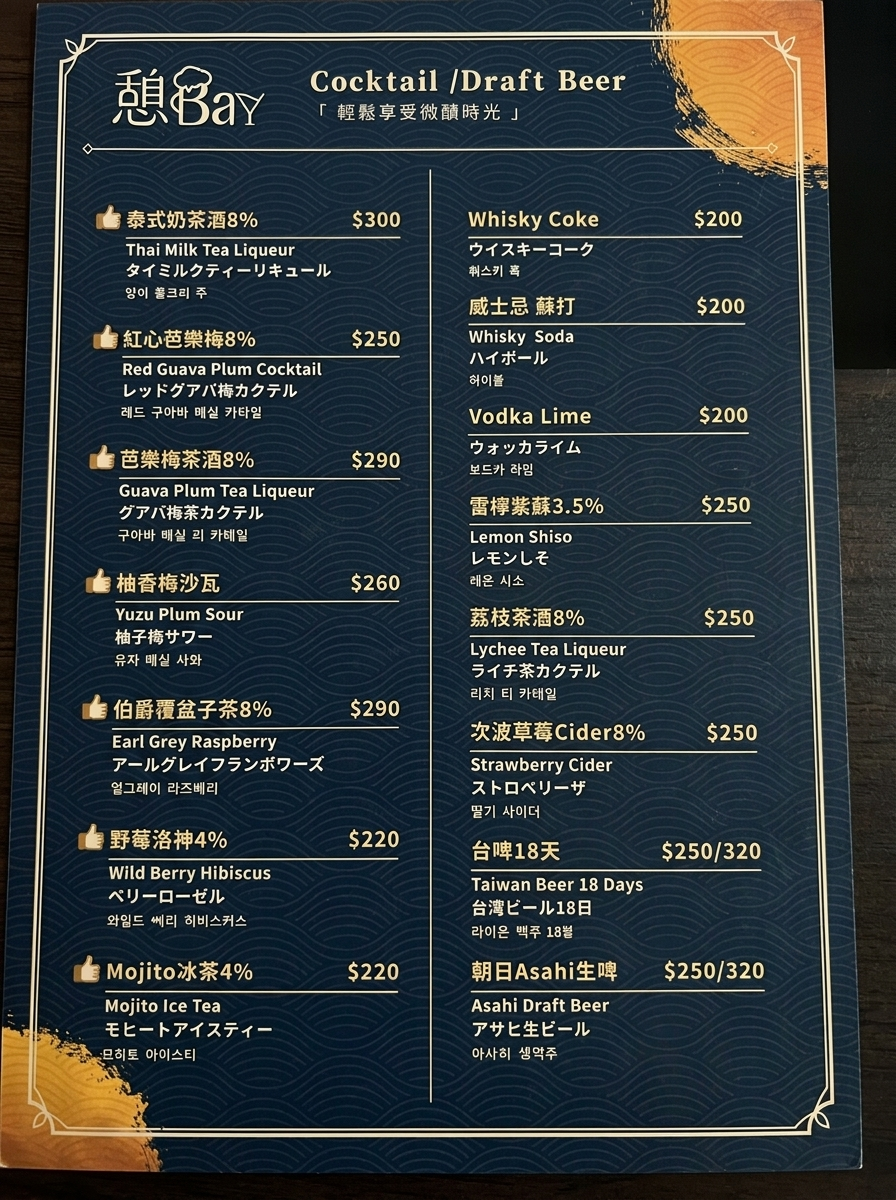
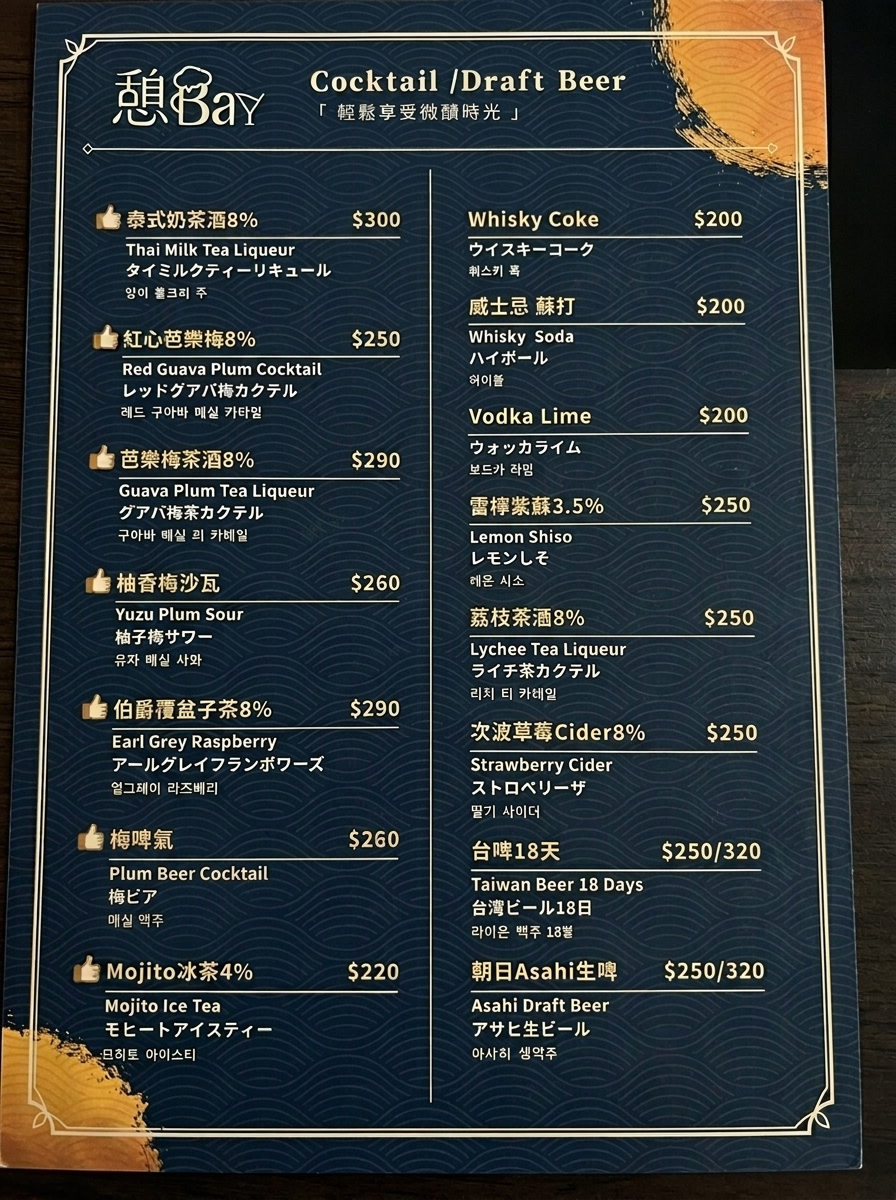
fix(menu): ensure '梅啤氣 260元' (Plum Beer Cocktail) is explicitly listed and correctly spelled on page 4 menu

diff --git a/preview.html b/preview.html
@@ -204,7 +204,7 @@
             {
                 file: "assets/menu_p4.jpg",
                 title: "🍸 第 4 頁：特色調酒、風味茶酒與生啤酒",
-                desc: "泰式奶茶酒 8% ($300)、紅心芭樂梅 8% ($250)、芭樂梅茶酒 8% ($290)、柚香梅沙瓦 ($260)、伯爵覆盆子 8% ($290)、梅脾氣 ($260)、野莓洛神 4% ($220)、Mojito冰茶 4% ($220) ｜ 18天生啤、朝日生啤"
+                desc: "泰式奶茶酒 8% ($300)、紅心芭樂梅 8% ($250)、芭樂梅茶酒 8% ($290)、柚香梅沙瓦 ($260)、伯爵覆盆子 8% ($290)、梅啤氣 ($260)、野莓洛神 4% ($220)、Mojito冰茶 4% ($220) ｜ 18天生啤、朝日生啤"
             },
             {
                 file: "assets/menu_p5.jpg",

diff --git a/menu_viewer.py b/menu_viewer.py
@@ -43,7 +43,7 @@ MENU_PAGES = [
         "title": "🍸 第 4 頁：特色調酒、風味茶酒與生啤酒",
         "tab_name": "🍸 4. 特色調酒 & 生啤",
         "file": "menu_p4.jpg",
-        "desc": "泰式奶茶酒 8% ($300)、紅心芭樂梅 8% ($250)、芭樂梅茶酒 8% ($290)、柚香梅沙瓦 ($260)、伯爵覆盆子 8% ($290)、梅脾氣 ($260)、野莓洛神 4% ($220)、Mojito冰茶 4% ($220)、雷檸紫蘇/荔枝/草莓 ｜ 18天生啤 ($250/$320)、朝日生啤 ($250/$320)、Highball/Lime ($200)"
+        "desc": "泰式奶茶酒 8% ($300)、紅心芭樂梅 8% ($250)、芭樂梅茶酒 8% ($290)、柚香梅沙瓦 ($260)、伯爵覆盆子 8% ($290)、梅啤氣 ($260)、野莓洛神 4% ($220)、Mojito冰茶 4% ($220)、雷檸紫蘇/荔枝/草莓 ｜ 18天生啤 ($250/$320)、朝日生啤 ($250/$320)、Highball/Lime ($200)"
     },
     {
         "id": "p5",

diff --git a/db.py b/db.py
@@ -20,7 +20,7 @@ OFFICIAL_MENU_ITEMS = [
     ("芭樂梅茶酒8%", "特色調酒茶酒", 65.0, 290.0, 160),
     ("柚香梅沙瓦", "特色調酒茶酒", 65.0, 260.0, 150),
     ("伯爵覆盆子8%", "特色調酒茶酒", 70.0, 290.0, 135),
-    ("梅脾氣", "特色調酒茶酒", 65.0, 260.0, 140),
+    ("梅啤氣", "特色調酒茶酒", 65.0, 260.0, 140),
     ("野莓洛神4%", "特色調酒茶酒", 55.0, 220.0, 110),
     ("Mojito冰茶4%", "特色調酒茶酒", 55.0, 220.0, 145),
     ("雷檸紫蘇3.5%", "特色調酒茶酒", 60.0, 250.0, 95),
